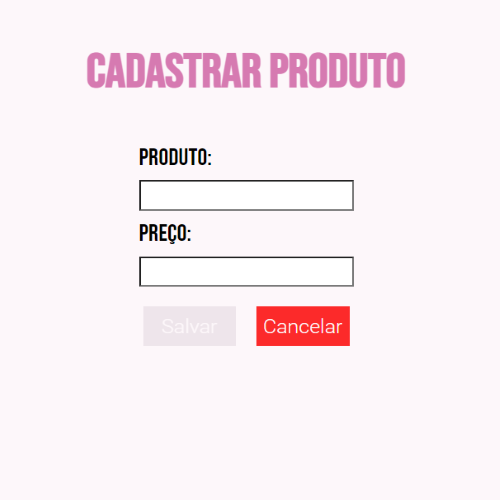
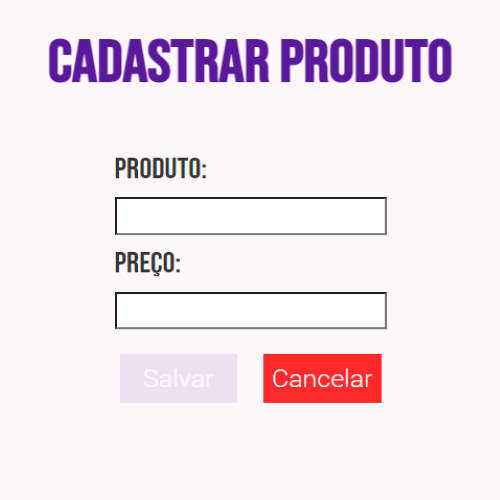
Temas light/dark

Changed region(s): [[0.21, 0.27, 0.78, 0.81], [0.09, 0.06, 0.93, 0.18]]

diff --git a/client/src/App.jsx b/client/src/App.jsx
@@ -1,4 +1,4 @@
-import { useState } from "react";
+import { useEffect, useState } from "react";
 import { ThemeProvider } from "styled-components";
 import { light, dark } from "./utils/Theme.styled";
 import Footer from "./components/Footer";
@@ -11,8 +11,17 @@ import Switch from "react-switch";
 function App() {
   const [selectedTheme, setSelectedTheme] = useState(light);
 
+  useEffect(() => {
+    const currentTheme = JSON.parse(localStorage.getItem("current-theme"));
+    if (currentTheme) {
+      setSelectedTheme(currentTheme);
+    }
+  }, []);
+
   const HandleThemeChange = (theme) => {
     setSelectedTheme(theme);
+
+    localStorage.setItem("current-theme", JSON.stringify(theme));
   };
   return (
     <ThemeProvider theme={selectedTheme}>
@@ -20,6 +29,8 @@ function App() {
       <Header
         btnSwitch={
           <Switch
+            uncheckedIcon={false}
+            checkedIcon={false}
             checked={selectedTheme === light ? false : true}
             onChange={() =>
               HandleThemeChange(selectedTheme === light ? dark : light)

diff --git a/client/src/components/Header.jsx b/client/src/components/Header.jsx
@@ -15,10 +15,39 @@ const Container = styled.header`
   }
 
   h1 {
-    font-size: 4.5rem;
     margin: 0 20px;
     color: #fdf7fa;
     font-family: var(--fontBebas);
+  }
+
+  @media (min-width: 768px) {
+    h1 {
+      font-size: 4.5rem;
+    }
+  }
+
+  @media (max-width: 767px) {
+    h1 {
+      font-size: 2.2rem;
+    }
+  }
+
+  div {
+    display: flex;
+    align-items: center;
+
+    span {
+      font-size: 30px;
+      margin: 0 5px;
+
+      &:first-of-type {
+        color: ${({ theme }) => theme.colors.sun};
+      }
+
+      &:last-of-type {
+        color: ${({ theme }) => theme.colors.moon};
+      }
+    }
   }
 `;
 
@@ -30,7 +59,11 @@ function Header(props) {
       <Link to="/">
         <h1>React CRUD</h1>
       </Link>
-      <div>{btnSwitch}</div>
+      <div>
+        <span>&#9728;</span>
+        {btnSwitch}
+        <span>&#9790;</span>
+      </div>
     </Container>
   );
 }

diff --git a/client/src/utils/Theme.styled.js b/client/src/utils/Theme.styled.js
@@ -9,6 +9,8 @@ const light = {
 
     text: "#333533",
     title: "#5a189a",
+    moon: "#000",
+    sun: "#fff",
   },
 };
 
@@ -23,6 +25,8 @@ const dark = {
 
     text: "#FDF7FA",
     title: "#6a4c93",
+    moon: "#fff",
+    sun: "#000",
   },
 };
 
